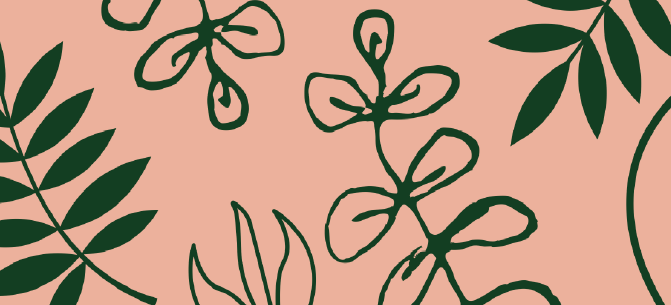
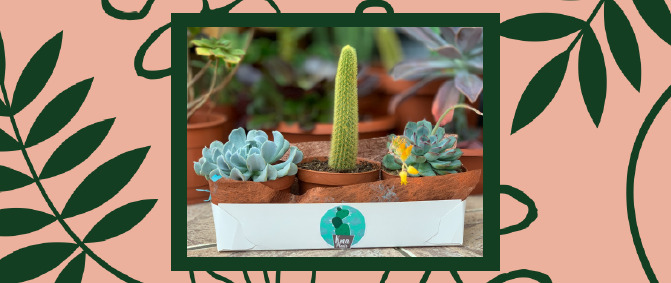
Last update index kma box and kma pack

diff --git a/inicio/inicio.html b/inicio/inicio.html
@@ -149,7 +149,7 @@
 				<h4>Kma Box</h4>
 				<p><em>Tenemos 3 tipos de Kma Box</em><br><br>En las cuales se incluyen una cantidad de cactus y suculentas específica en cajitas decoradas, especiales para regalos y para empezar tu colección de plantas</p>
 			</div>
-			<div class="right-image hidden-xs"></div>
+			<div class="right-image hidden-xs"> <img src="img/fondo-index-kma-box.png" alt=""></div>
 		</div>
 	</section>
     <br>
@@ -159,7 +159,7 @@
 				<h4>Kma Pack</h4>
 				<p><em>Tenemos 9 combos de Kma Pack</em><br><br> Los cuales incluyen artículos originales relacionados a plantitas</p>
 			</div>
-			<div class="right-image hidden-xs"> <img src="" alt=""></div>
+			<div class="right-image hidden-xs"> <img src="img/fondo-index-kma-pack.png" alt=""></div>
 		</div>
 	</section>
     <br>
